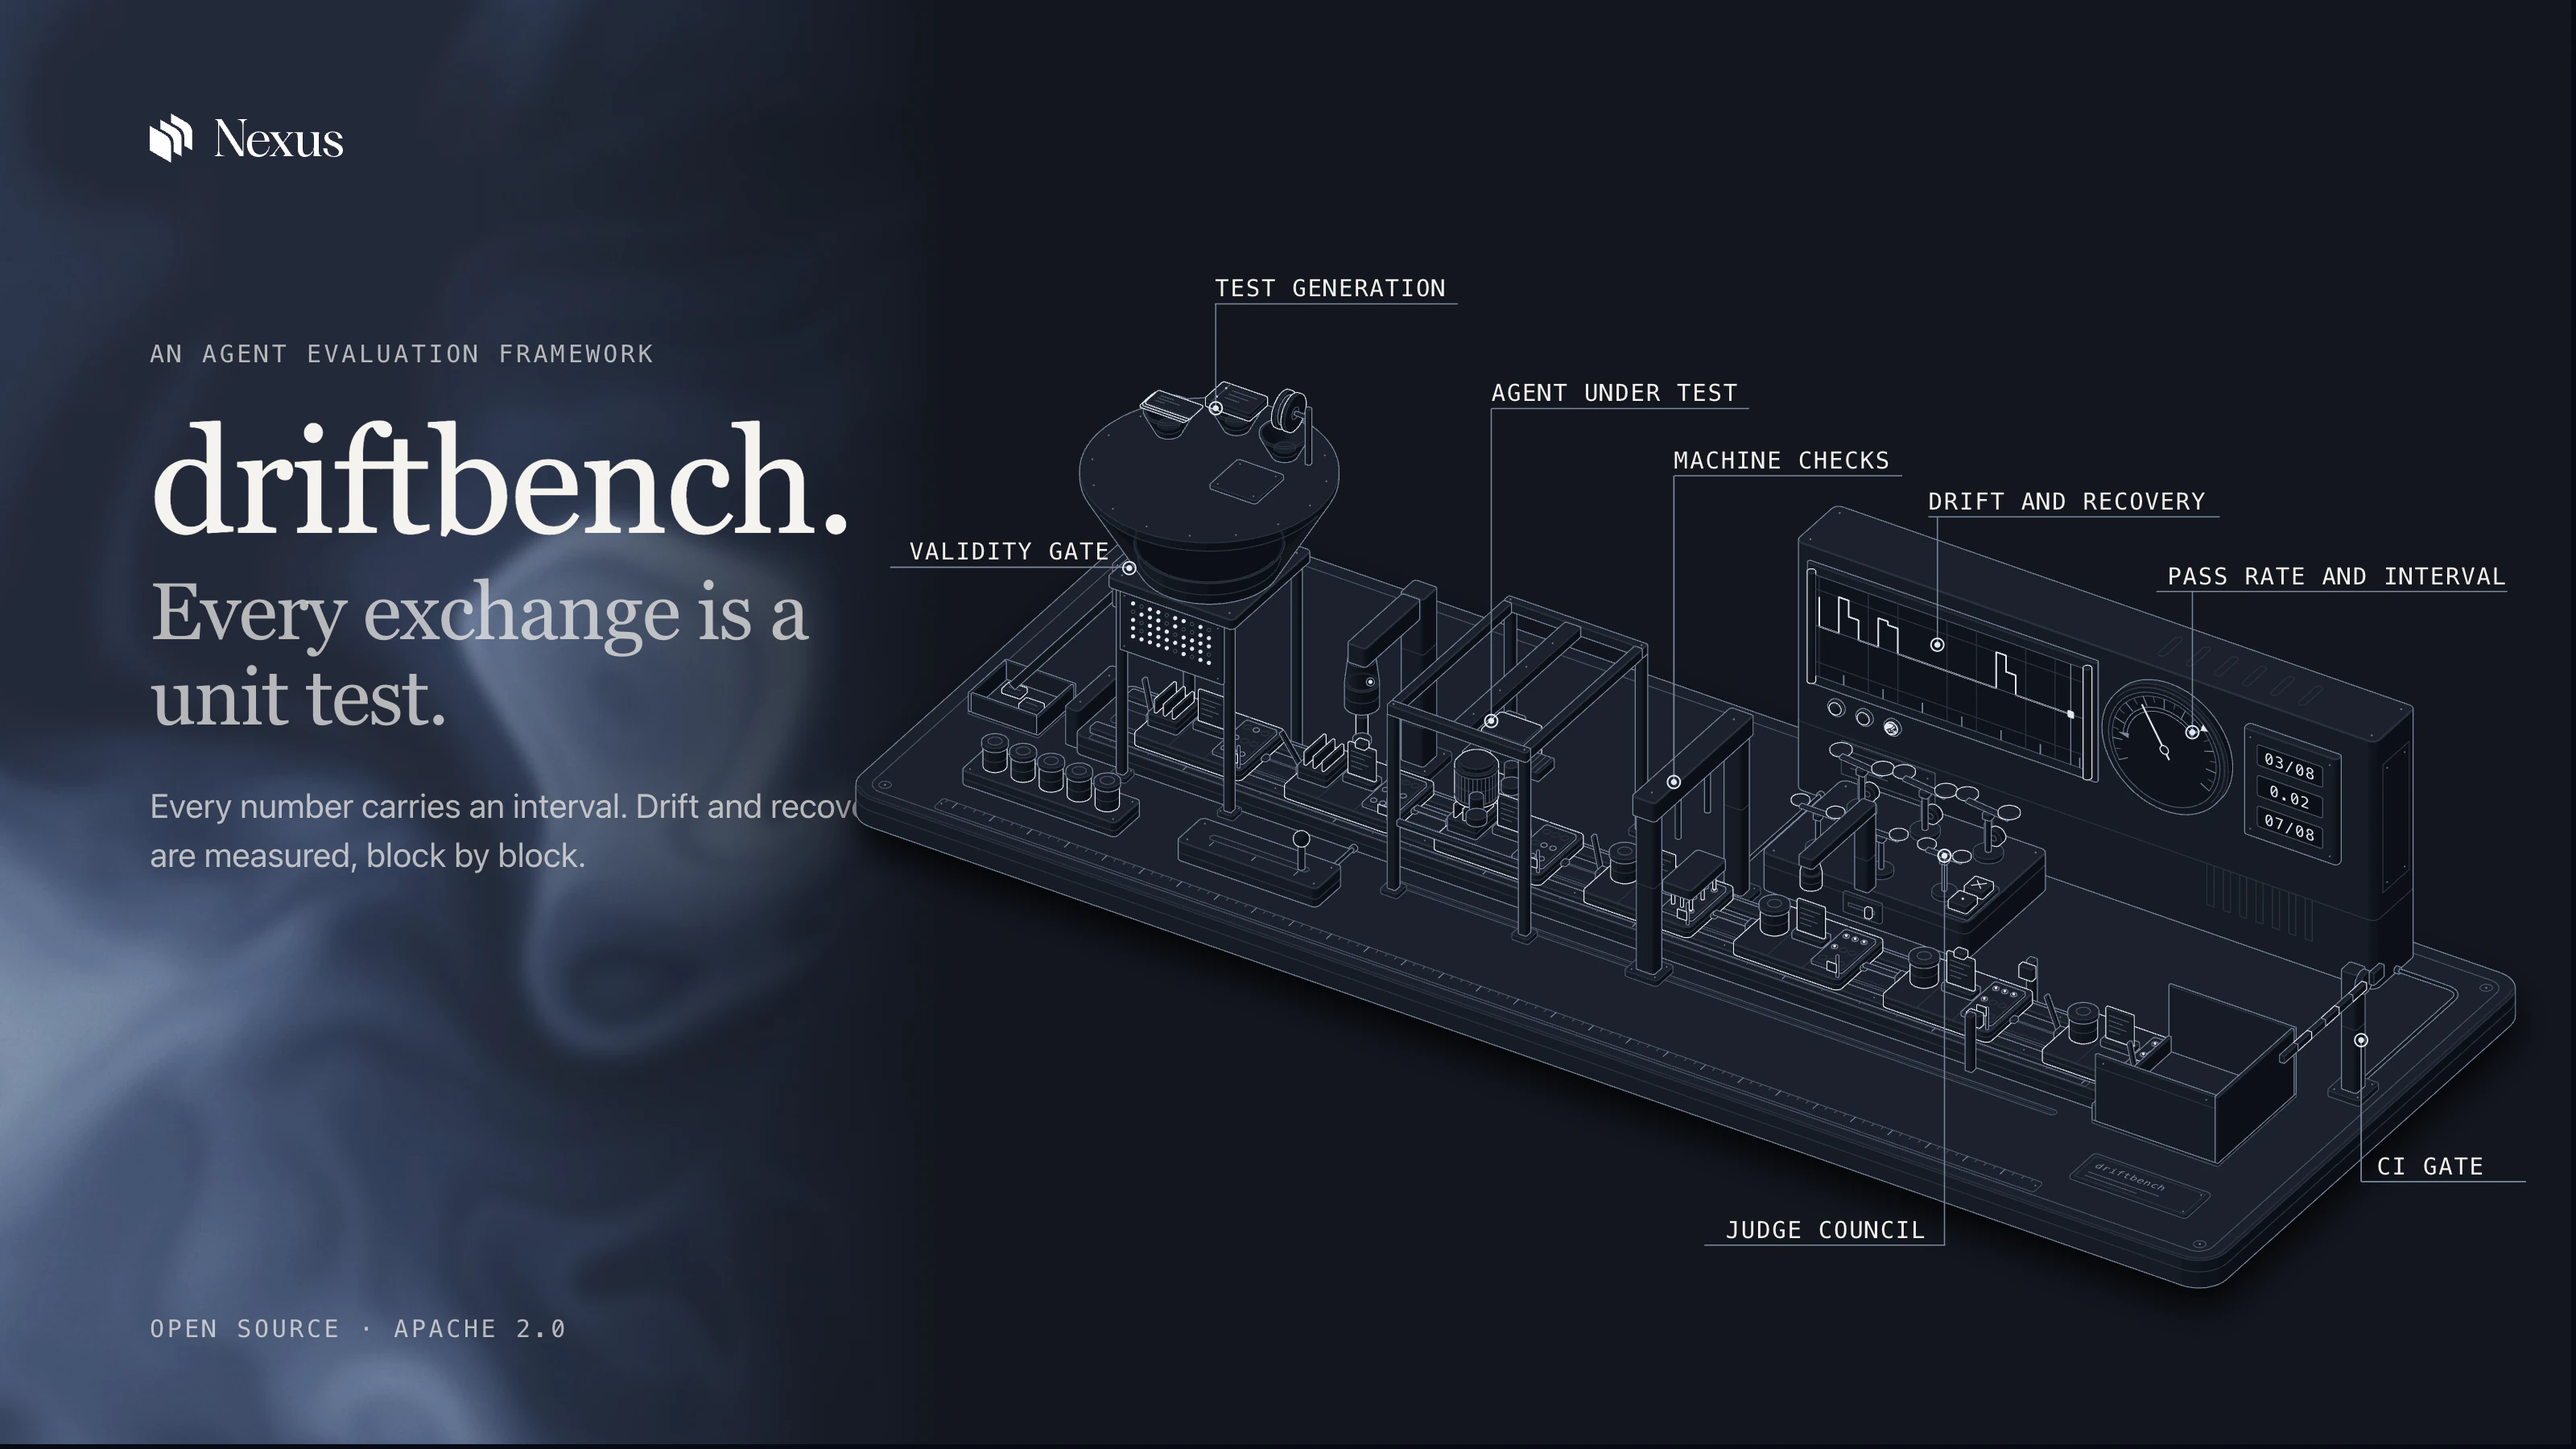
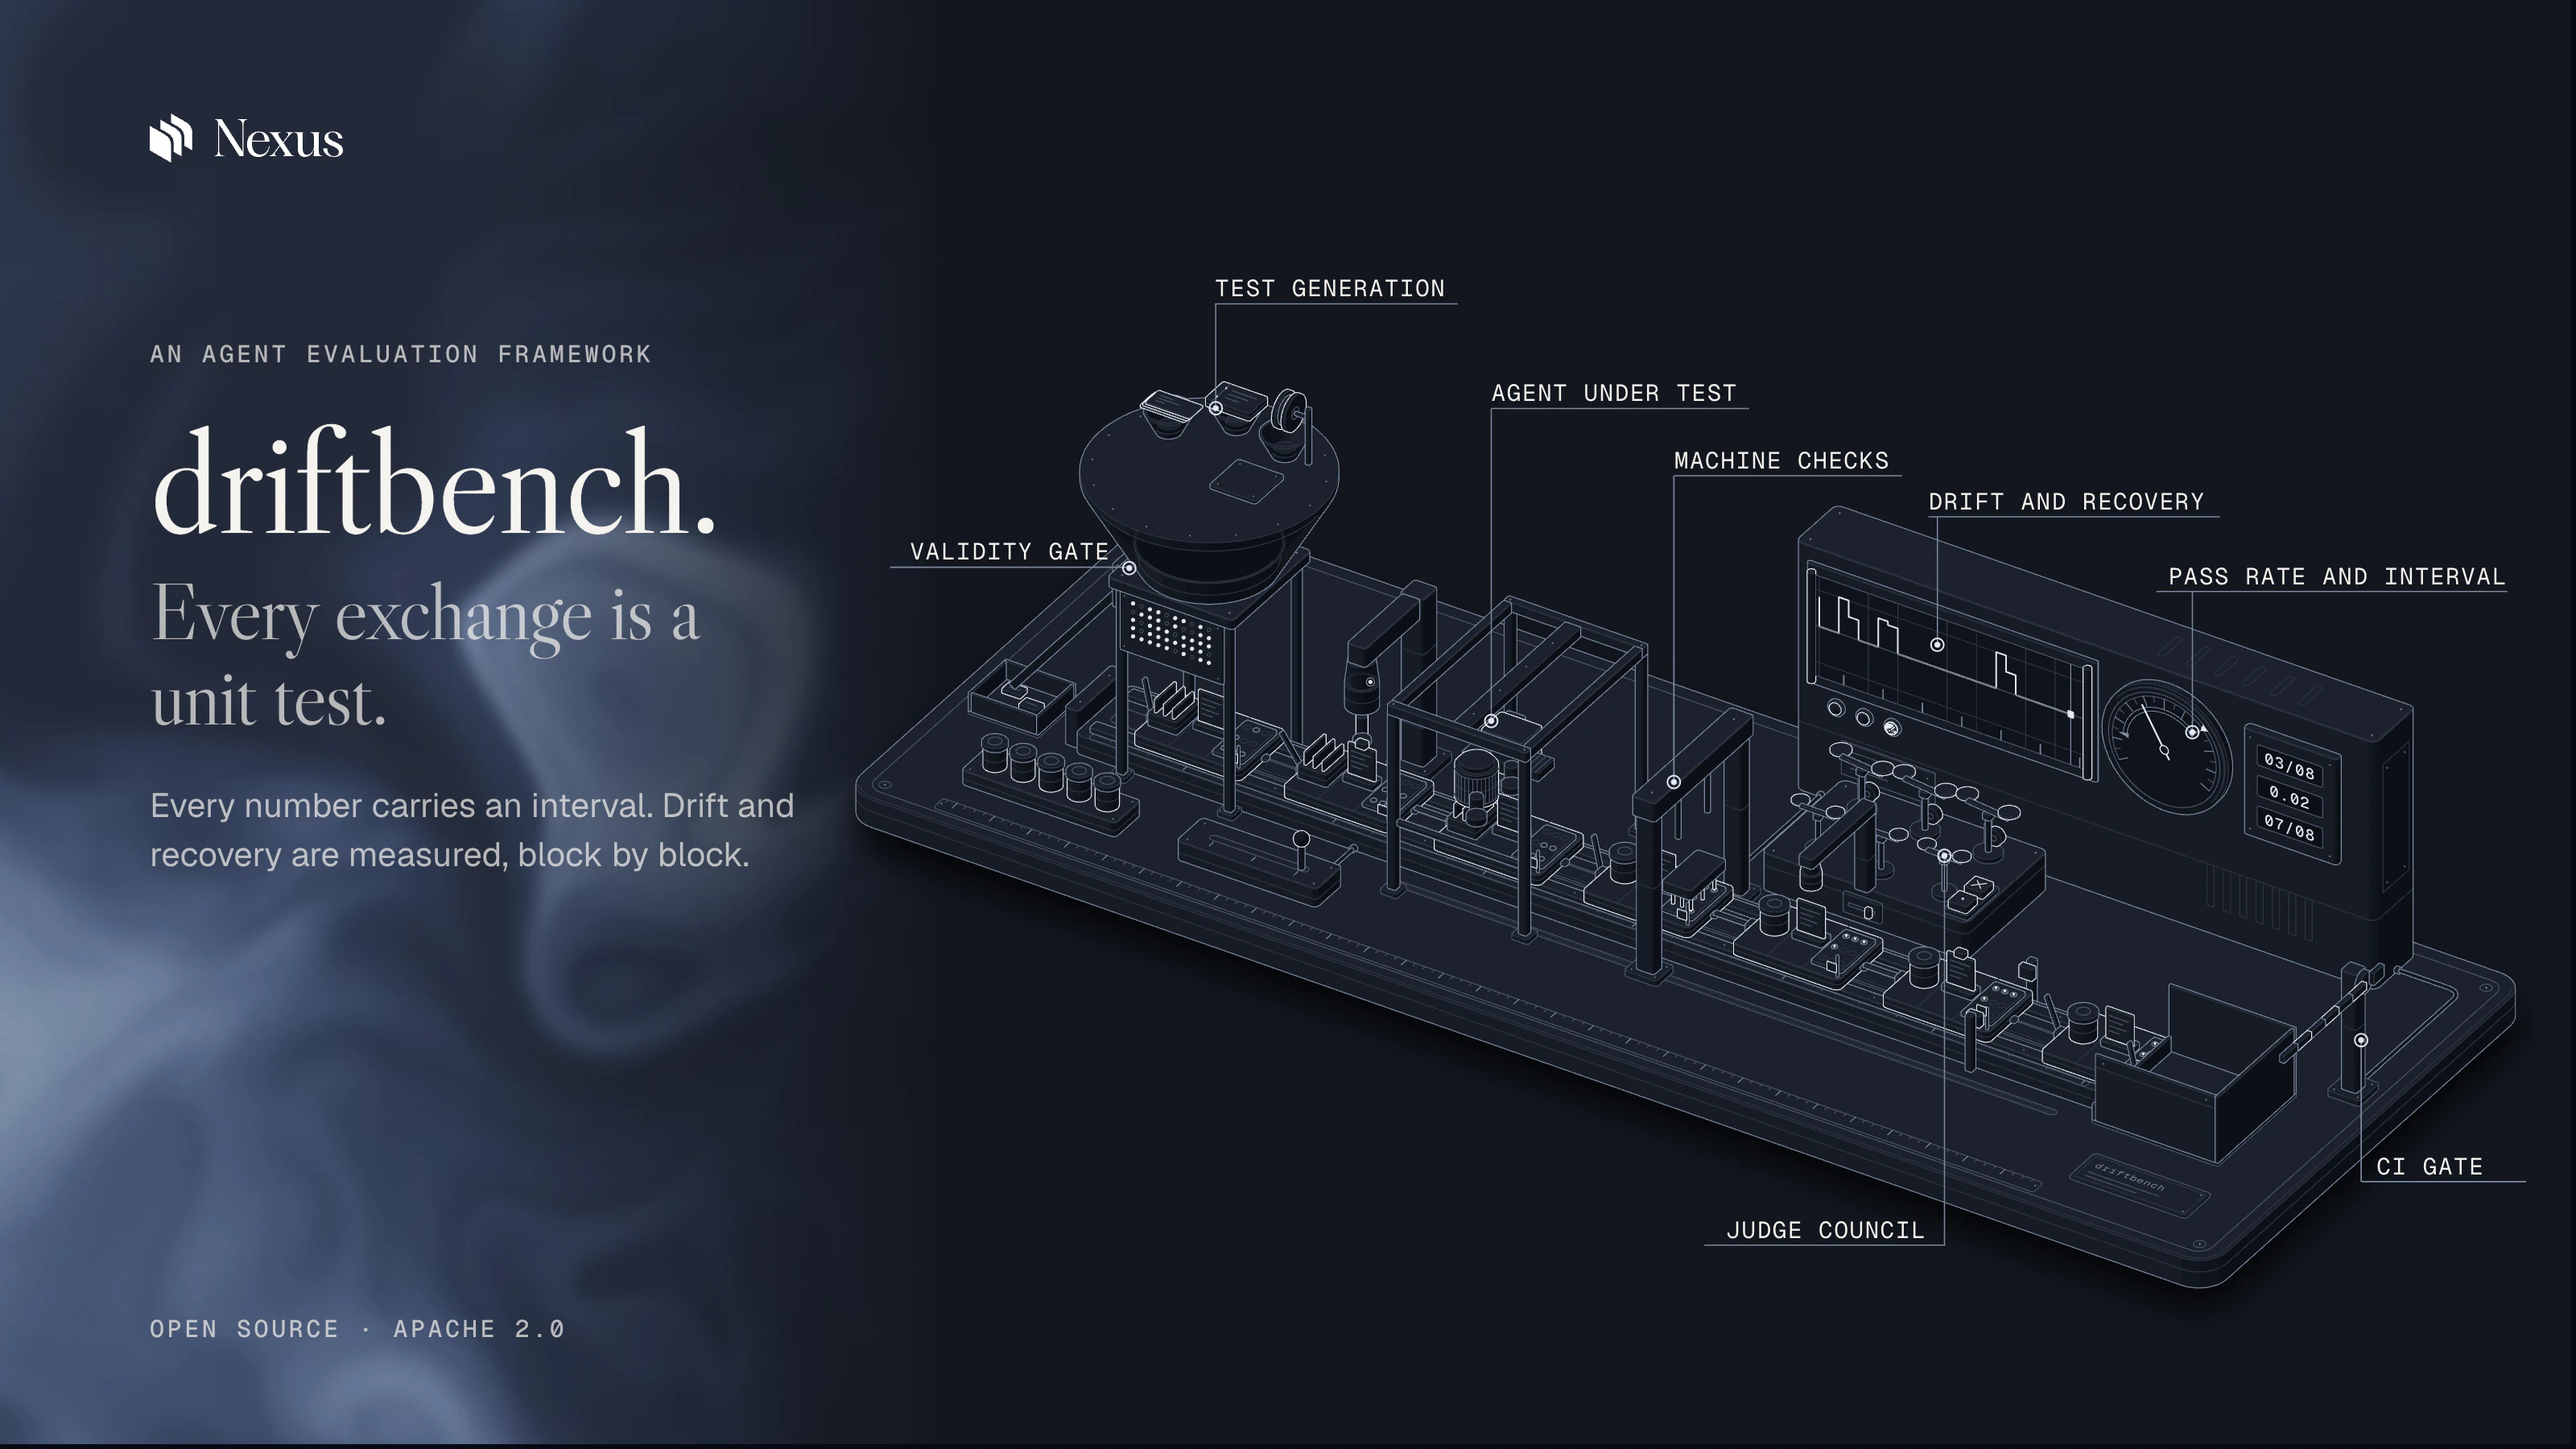
Hero: the intro wraps before recovery in both themes; dark hero re-captured

diff --git a/.github/readme/anatomy/hero.html b/.github/readme/anatomy/hero.html
@@ -590,6 +590,7 @@ body {
 }
 .hero-intro {
   margin: 26px 0 0;
+  max-width: 410px;
   font: 400 21px/1.45 var(--an-sans);
   color: var(--hero-soft);
 }

diff --git a/.github/readme/anatomy/hero.css b/.github/readme/anatomy/hero.css
@@ -82,6 +82,7 @@ body {
 }
 .hero-intro {
   margin: 26px 0 0;
+  max-width: 410px;
   font: 400 21px/1.45 var(--an-sans);
   color: var(--hero-soft);
 }
